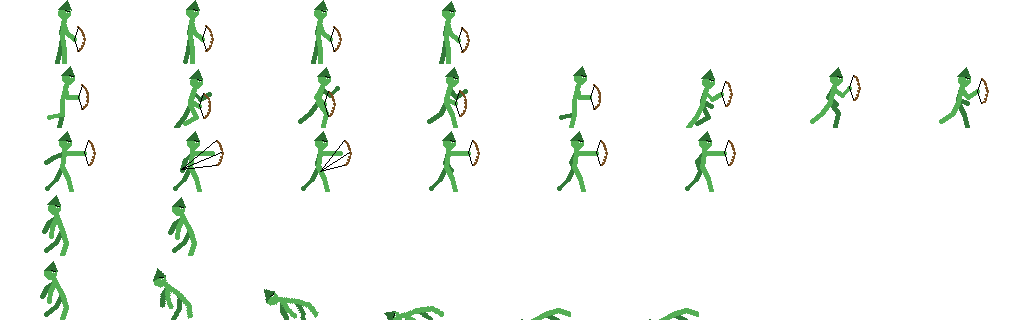
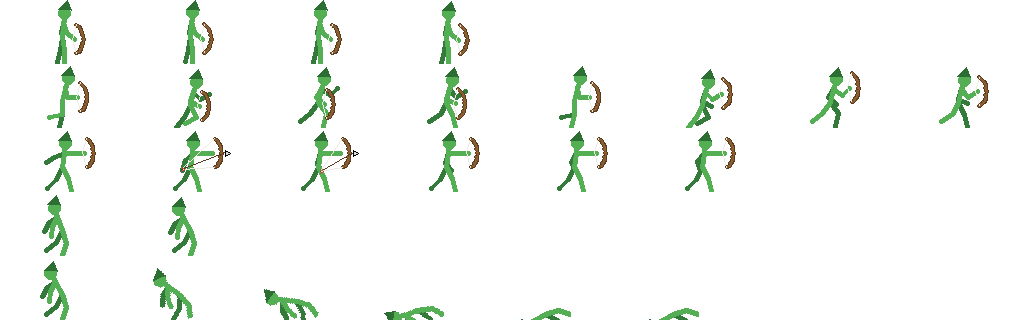
Redraw enemy weapons (sword, katana, spiked club, axe, bow with arrow, shield, claws, bomb) and remove faces

diff --git a/tools/make_enemy_sprites.py b/tools/make_enemy_sprites.py
@@ -68,6 +68,88 @@ def weapon_at(d, hand, ang, ln, width=2):
     return tip
 
 
+STEEL, STEEL_D, GOLD = (206, 214, 228, 255), (132, 144, 164, 255), (226, 176, 56, 255)
+WOOD, WOOD_D = (140, 94, 48, 255), (88, 58, 30, 255)
+
+
+def wpoly(d, hand, ang, pts, fill, outline=BLACK):
+    """A polygon in weapon space: x runs along the weapon from the hand, y across it."""
+    s_, c_ = math.sin(ang), math.cos(ang)
+    world = [(hand[0] + s_ * lx + c_ * ly, hand[1] + c_ * lx - s_ * ly) for lx, ly in pts]
+    d.polygon([(round(x), round(y)) for x, y in world], fill=fill, outline=outline)
+
+
+def draw_sword(d, hand, ang, length=19, thick=1.8):
+    wpoly(d, hand, ang, [(-5, -1.3), (3, -1.3), (3, 1.3), (-5, 1.3)], WOOD_D)                      # grip
+    wpoly(d, hand, ang, [(-7, -2), (-5, -2), (-5, 2), (-7, 2)], GOLD)                               # pommel
+    wpoly(d, hand, ang, [(3, -4.5), (5, -4.5), (5, 4.5), (3, 4.5)], GOLD)                           # cross guard
+    wpoly(d, hand, ang, [(5, -thick), (length, -thick), (length + 3, 0), (length, thick), (5, thick)], STEEL)   # blade
+    wpoly(d, hand, ang, [(5.5, -0.3), (length, -0.3), (length + 1, 0), (length, 0.3), (5.5, 0.3)], STEEL_D, STEEL_D)  # fuller
+
+
+def draw_katana(d, hand, ang):
+    wpoly(d, hand, ang, [(-8, -1.4), (4, -1.4), (4, 1.4), (-8, 1.4)], (40, 44, 72, 255))             # wrapped grip
+    for lx in (-6, -3, 0):
+        wpoly(d, hand, ang, [(lx, -1.4), (lx + 1, -1.4), (lx + 1, 1.4), (lx, 1.4)], (200, 40, 40, 255), None)
+    wpoly(d, hand, ang, [(4, -3.6), (5.6, -3.6), (5.6, 3.6), (4, 3.6)], BLACK)                       # guard
+    wpoly(d, hand, ang, [(5.6, -1.1), (27, -1.1), (32, 0), (27, 0.8), (5.6, 1.1)], (226, 234, 248, 255))  # long, thin blade
+
+
+def draw_club(d, hand, ang, big=False):
+    r = 6 if big else 4.5
+    wpoly(d, hand, ang, [(-3, -1.6), (12, -2.2), (19, -r), (25, -r), (27, 0), (25, r), (19, r), (12, 2.2), (-3, 1.6)], WOOD)
+    wpoly(d, hand, ang, [(12, -2.2), (14, -2.4), (14, 2.4), (12, 2.2)], WOOD_D, None)                  # iron band
+    for lx in (20.5, 24):                                                                                # studs
+        for side in (-1, 1):
+            wpoly(d, hand, ang, [(lx - 1.5, side * r), (lx, side * (r + 3.5)), (lx + 1.5, side * r)], STEEL)
+    wpoly(d, hand, ang, [(26, -1), (30, 0), (26, 1)], STEEL)                                           # tip spike
+
+
+def draw_axe(d, hand, ang):
+    wpoly(d, hand, ang, [(-8, -1.6), (30, -1.6), (30, 1.6), (-8, 1.6)], WOOD)                          # long haft
+    wpoly(d, hand, ang, [(21, -1.6), (19, -13), (28, -15), (35, -8), (33, -2), (28, 0)], STEEL)        # blade
+    wpoly(d, hand, ang, [(24, -3), (24, -12), (30, -11), (31, -6)], STEEL_D, None)                     # edge shading
+    wpoly(d, hand, ang, [(22, 1.6), (21, 8), (28, 3)], STEEL)                                          # back spike
+    wpoly(d, hand, ang, [(30, -1.6), (34, 0), (30, 1.6)], STEEL)
+
+
+def draw_claws(d, hand, ang):
+    for k in (-1, 0, 1):
+        wpoly(d, hand, ang, [(0, k * 3 - 1.2), (9, k * 3.4 - 2), (16, k * 4 + 2), (10, k * 3.4 + 0.4), (0, k * 3 + 1.2)],
+              (236, 252, 255, 255), (120, 190, 235, 255))
+
+
+def draw_shield(d, c):
+    d.ellipse([c[0] - 7, c[1] - 13, c[0] + 7, c[1] + 13], fill=STEEL_D, outline=BLACK)
+    d.ellipse([c[0] - 4, c[1] - 10, c[0] + 4, c[1] + 10], fill=STEEL, outline=None)
+    d.ellipse([c[0] - 2, c[1] - 2, c[0] + 2, c[1] + 2], fill=GOLD, outline=BLACK)
+
+
+def draw_bow(d, hand, hb, pull):
+    c = (hand[0] + 3, hand[1])
+    arc = [(c[0] + 9 * math.cos(a) - 3, c[1] + 15 * math.sin(a)) for a in [(-1.25 + 2.5 * i / 10) for i in range(11)]]
+    stroke(d, arc, WOOD_D, 4)
+    stroke(d, arc, WOOD, 2)
+    top, bot = arc[0], arc[-1]
+    nock = hb if pull > 0.05 else (c[0] - 4, c[1])
+    d.line([top, nock, bot], fill=(236, 236, 226, 255), width=1)
+    if pull > 0.05:   # an arrow drawn back on the string
+        tip = (c[0] + 11, c[1])
+        d.line([nock, tip], fill=WOOD_D, width=1)
+        d.polygon([(round(tip[0]) + 4, round(tip[1])), (round(tip[0]) - 1, round(tip[1]) - 3), (round(tip[0]) - 1, round(tip[1]) + 3)], fill=STEEL, outline=BLACK)
+        d.line([(nock[0], nock[1] - 2), (nock[0] + 3, nock[1])], fill=(210, 60, 60, 255), width=1)
+        d.line([(nock[0], nock[1] + 2), (nock[0] + 3, nock[1])], fill=(210, 60, 60, 255), width=1)
+
+
+def draw_bomb(d, b):
+    circle(d, b, 5, BLACK)
+    circle(d, b, 4, (52, 54, 66, 255))
+    d.point([(round(b[0]) - 2, round(b[1]) - 2)], fill=(150, 156, 176, 255))                             # highlight
+    d.line([(round(b[0]) + 1, round(b[1]) - 5), (round(b[0]) + 4, round(b[1]) - 8)], fill=(150, 112, 60, 255), width=1)   # fuse
+    d.point([(round(b[0]) + 5, round(b[1]) - 9), (round(b[0]) + 4, round(b[1]) - 9)], fill=(255, 190, 50, 255))
+    d.point([(round(b[0]) + 5, round(b[1]) - 10)], fill=(255, 240, 160, 255))
+
+
 def draw_figure(kind, p, extra=None):
     """One frame. `extra` is a dict of per-frame details (weapon, bow, bomb...)."""
     k = KINDS[kind]
@@ -80,12 +162,8 @@ def draw_figure(kind, p, extra=None):
     # far side first
     stroke(d, [p["hip"], p["kneeB"], p["footB"]], shade, w)
     stroke(d, [p["shoulder"], p["elbowB"], p["handB"]], shade, w)
-    if extra.get("shield"):   # a round shield held out in front on the far arm
-        c = (p["handB"][0] + 4, p["handB"][1] - 2)
-        d.ellipse([c[0] - 6, c[1] - 12, c[0] + 6, c[1] + 12], fill=(205, 212, 224, 255), outline=BLACK)
-        circle(d, c, 2, BLACK)
-    if extra.get("bandolier"):
-        pass
+    if extra.get("shield"):   # held out in front on the far arm
+        draw_shield(d, (p["handB"][0] + 5, p["handB"][1] - 3))
     stroke(d, [p["neck"], p["shoulder"], p["hip"]], body, w)
     stroke(d, [p["hip"], p["kneeF"], p["footF"]], body, w)
     stroke(d, [p["shoulder"], p["elbowF"], p["handF"]], body, w)
@@ -105,39 +183,24 @@ def draw_figure(kind, p, extra=None):
     if kind == "boss":
         for s in (-1, 1):
             d.polygon([(hx + s * 5, hy - 5), (hx + s * 12, hy - 15), (hx + s * 9, hy - 2)], fill=(236, 228, 200, 255))
-    # eyes: two angry dots on the face side (he faces right)
-    ec = (255, 255, 255, 255) if kind != "ghost" else (40, 70, 110, 255)
-    d.point([(round(hx + 2), round(hy - 1)), (round(hx + 4), round(hy - 1))], fill=ec)
-    if kind in ("grunt", "ninja", "brute", "boss", "archer", "bomber", "guard"):
-        d.line([(round(hx + 1), round(hy - 3)), (round(hx + 5), round(hy - 2))], fill=BLACK, width=1)
     # weapon in the front hand
     hand, fa = p["handF"], p["fa" + "F"]
-    wp = extra.get("weapon")
+    wp, ang = extra.get("weapon"), p["faF"] + extra.get("wa", 0.3)
     if wp == "sword":
-        weapon_at(d, hand, fa + extra.get("wa", 0.3), 14)
+        draw_sword(d, hand, ang, 24 if kind == "guard" else 19, 2.2 if kind == "guard" else 1.8)
     elif wp == "club":
-        tip = weapon_at(d, hand, fa + extra.get("wa", 0.3), 17, 3 if kind == "grunt" else 4)
-        circle(d, tip, 4 if kind == "brute" else 6, (110, 74, 40, 255))
+        if kind == "boss":
+            draw_axe(d, hand, ang)
+        else:
+            draw_club(d, hand, ang, big=kind == "brute")
     elif wp == "katana":
-        weapon_at(d, hand, fa + extra.get("wa", 0.3), 17)
+        draw_katana(d, hand, ang)
     elif wp == "claw":
-        for off in (-0.25, 0, 0.25):
-            weapon_at(d, hand, fa + off, 5, 1)
+        draw_claws(d, hand, p["faF"])
     elif wp == "bow":
-        pull = extra.get("pull", 0)
-        c = (hand[0] + 2, hand[1])
-        pts = [(c[0] + 8 * math.cos(a), c[1] + 13 * math.sin(a)) for a in [(-1.2 + 2.4 * i / 8) for i in range(9)]]
-        stroke(d, pts, (120, 80, 36, 255), 2)
-        hb = p["handB"]
-        top, bot = pts[0], pts[-1]
-        d.line([top, hb if pull > 0.05 else (c[0] - 1, c[1]), bot], fill=BLACK, width=1)
-        if pull > 0.05:
-            d.line([hb, (c[0] + 8, c[1])], fill=BLACK, width=1)
+        draw_bow(d, hand, p["handB"], extra.get("pull", 0))
     if extra.get("bomb"):
-        b = (p["handF"][0] + 1, p["handF"][1] - 5)
-        circle(d, b, 4, (30, 30, 30, 255))
-        d.point([(round(b[0] + 3), round(b[1] - 5))], fill=(255, 176, 46, 255))
-        d.line([(round(b[0] + 1), round(b[1] - 4)), (round(b[0] + 3), round(b[1] - 6))], fill=(160, 160, 160, 255), width=1)
+        draw_bomb(d, (p["handF"][0] + 1, p["handF"][1] - 6))
     if "alpha" in k:
         px = img.load()
         for y in range(H):
@@ -216,7 +279,7 @@ def attack_frames(kind):
         legs = [[1.0, 0.9], [-0.7, 0.2]] if i >= 3 else ([[0.9, 1.5], [-0.5, 1.4]] if crouch else [[0.3, 0.3], [-0.3, 0.2]])
         arms = [[up, elbow], [0.8, 1.0]]
         p = make_pose(lean, legs, arms)
-        out.append(draw_figure(kind, p, held(kind, wa=0.2 if i < 3 else 0.5)))
+        out.append(draw_figure(kind, p, held(kind, wa=[1.6, 1.4, 1.1, 0.5, 0.5, 0.6][i])))   # raised behind the head, then forward
     return out
 
 
